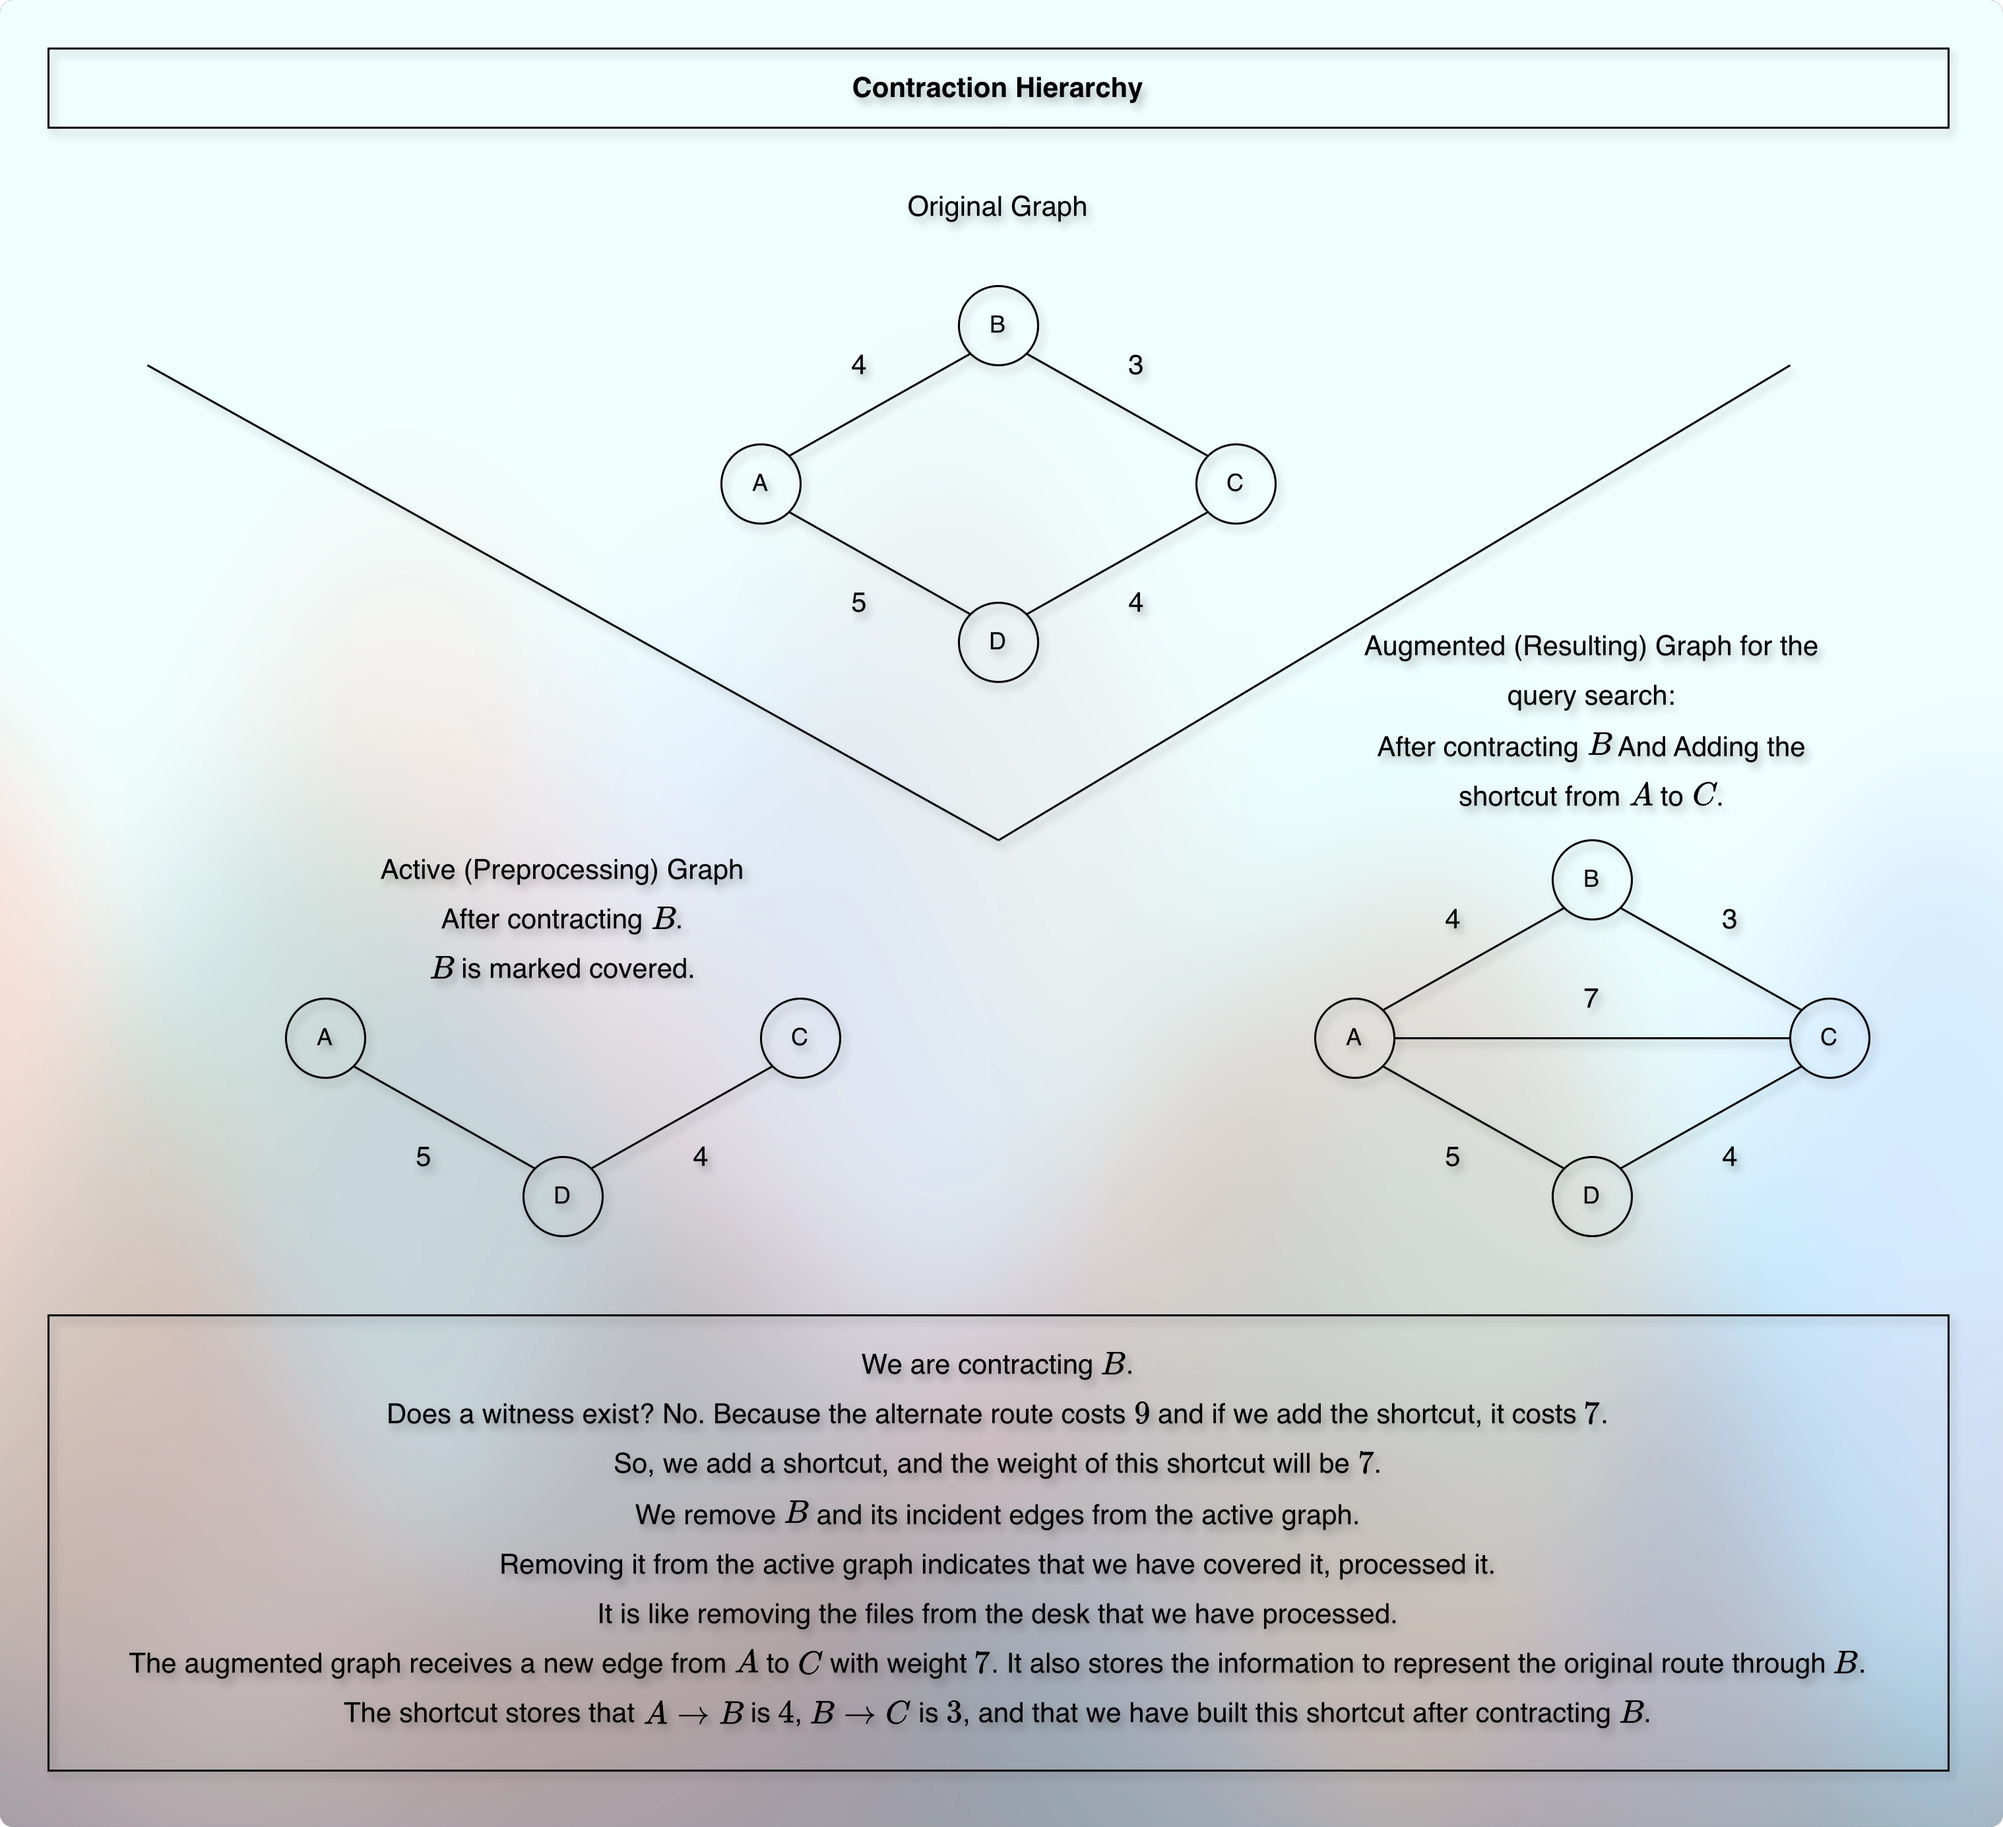
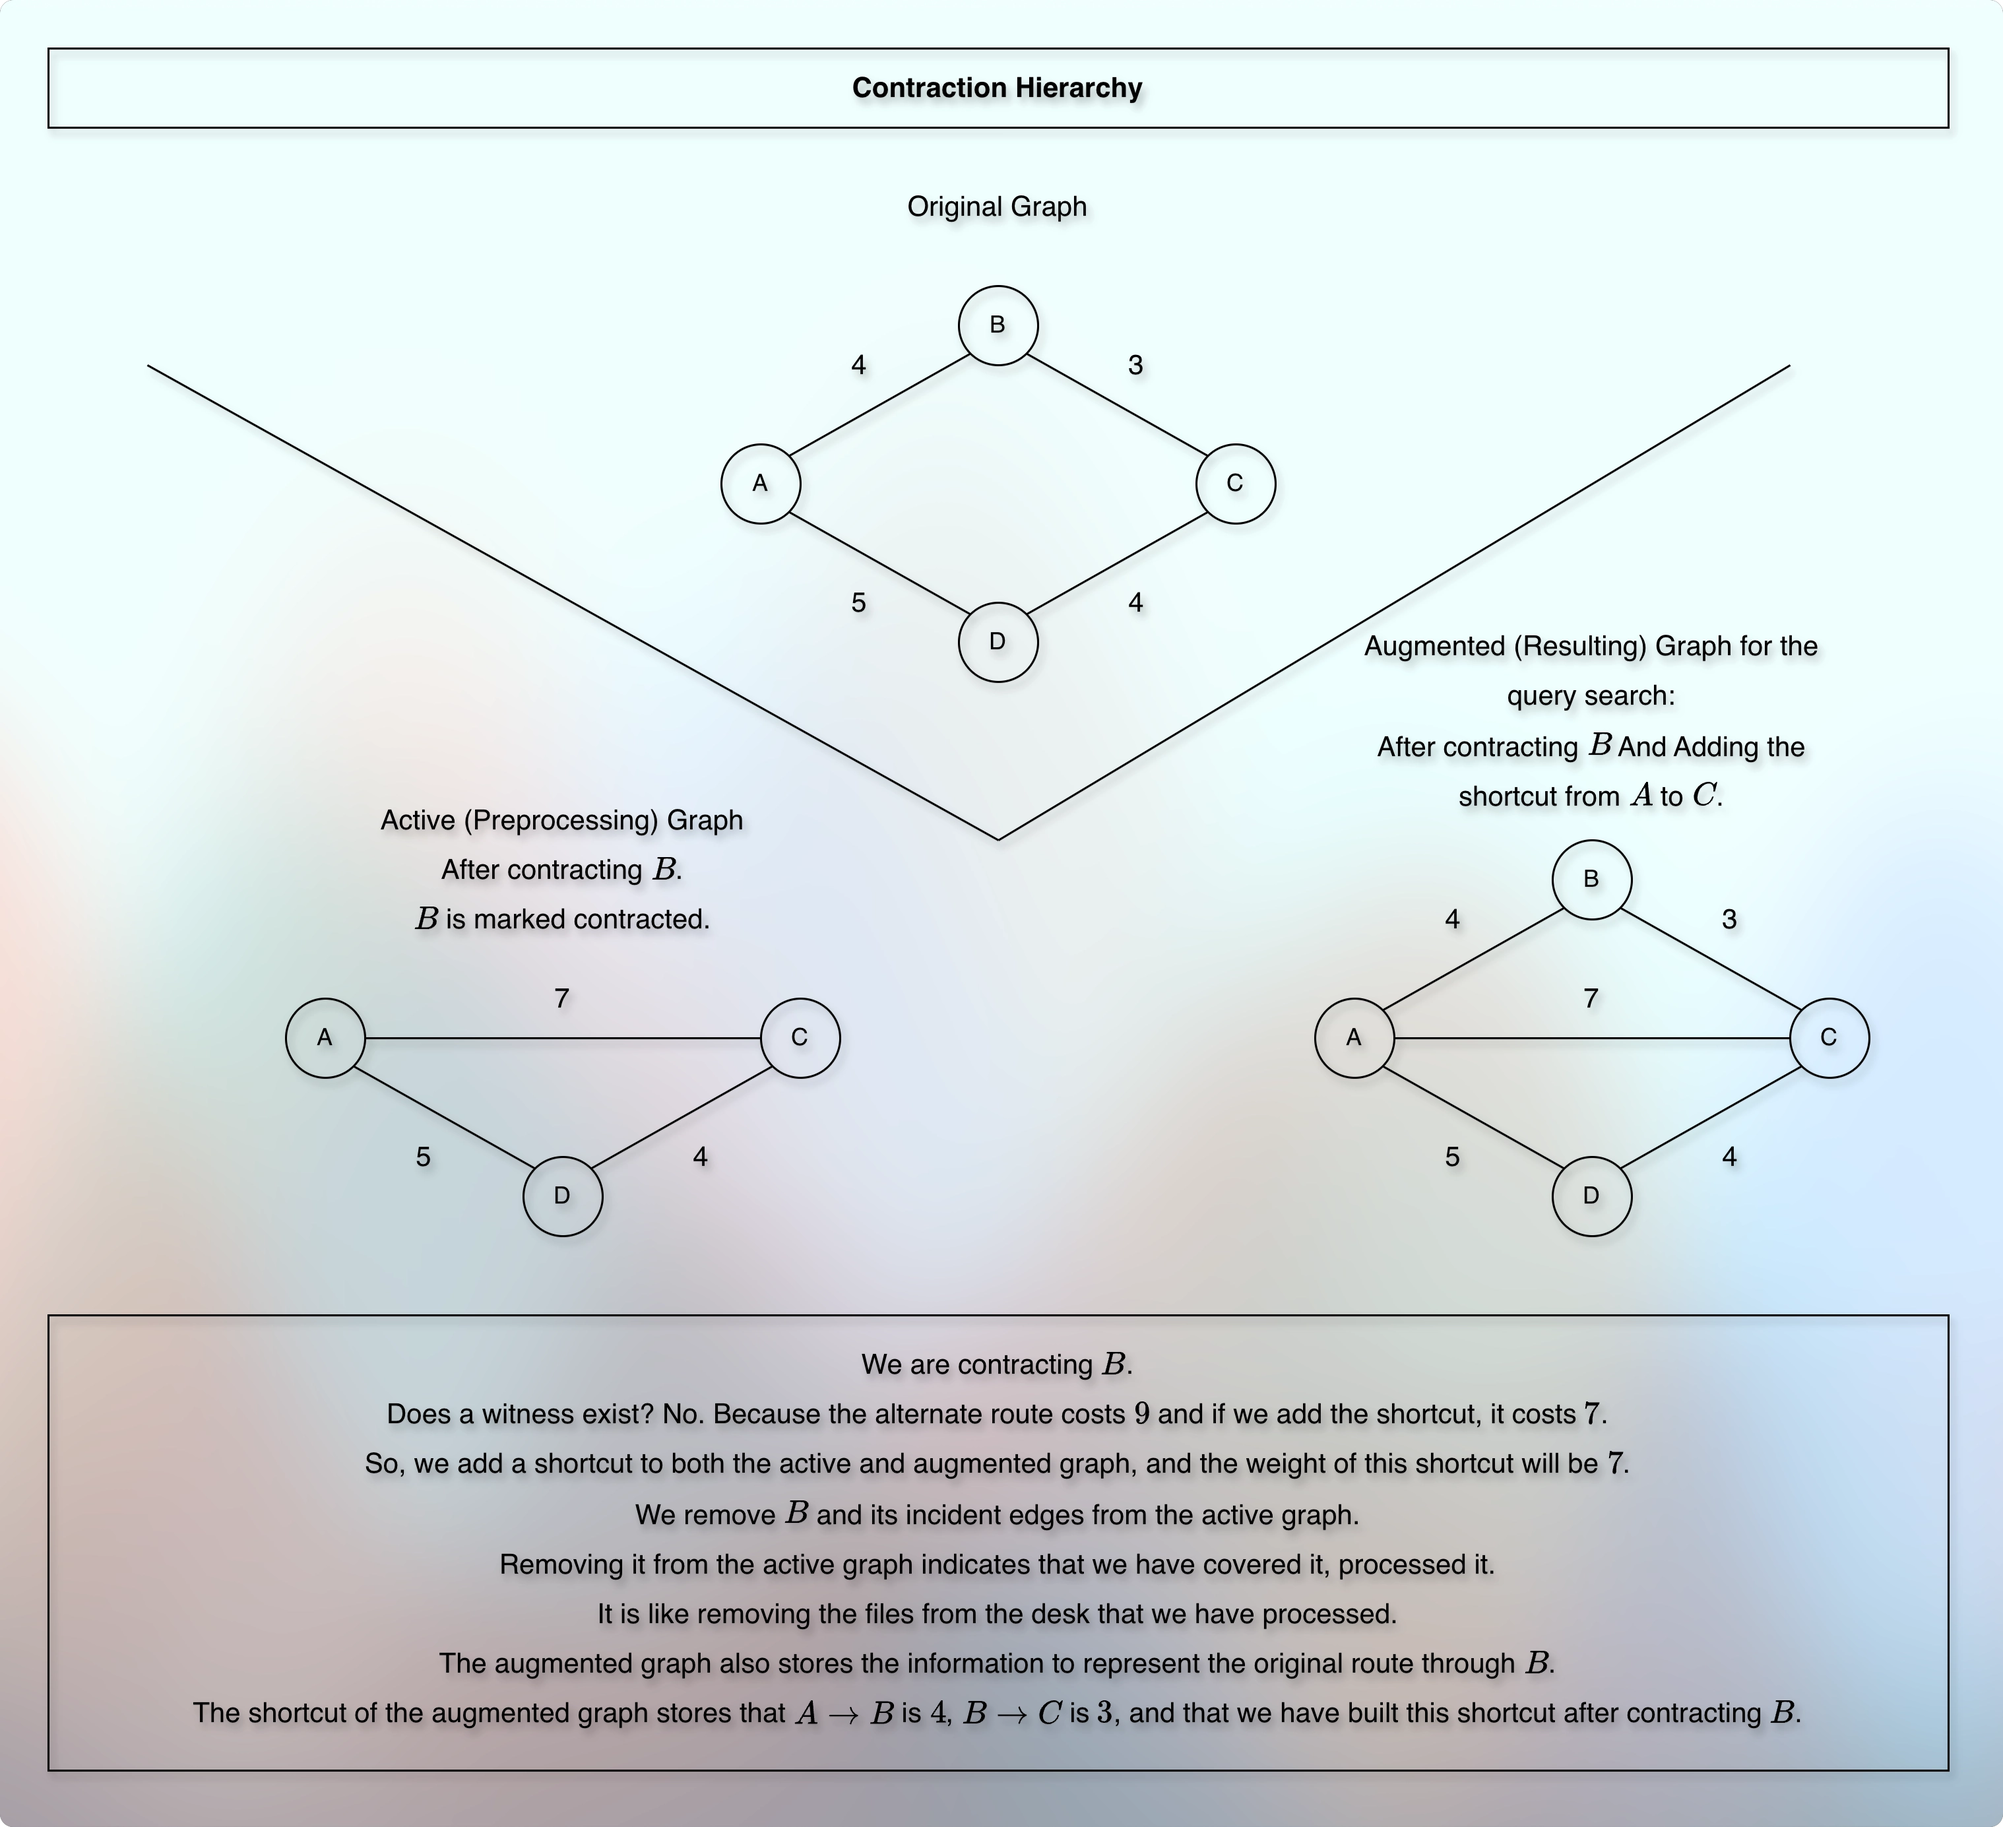
doc(WIP): Continue contraction hierarchies concept in 040contractionHierarchiesAndNodeImportance.md
Took 13 minutes

Changed region(s): [[0.0619, 0.9007, 0.9289, 0.9628], [0.1858, 0.7765, 0.805, 0.8075], [0.1858, 0.4348, 0.3715, 0.559]]

diff --git a/docs/03graph/courses/uc/module06advancedShortestPathProject/010lectures/040contractionHierarchiesAndNodeImportance.md b/docs/03graph/courses/uc/module06advancedShortestPathProject/010lectures/040contractionHierarchiesAndNodeImportance.md
@@ -665,7 +665,13 @@ $$
 * However, whether we create the shortcut or not due to the witness path, we still contract the vertex.
 * Once we contract the vertex, we remove it from the active graph, the graph that we are preprocessing, the original graph, now modified.
 * It is like removing processed files and tasks from the desk.
-* Whereas the term "Hierarchy" is associated with the concept of "importance".
+* Both the active graph and the augmented graph get the shortcut.
+* The shortcuts we add to the active graph can work as witness path.
+* It means that the active graph might end up with having only shortcuts.
+* However, it is not necessary.
+* The active graph can contain a few shortcuts and a few edges between the vertices that have not been contracted.
+* Whereas the augmented graph will always have both the original paths and also the shortcuts.
+* The term "Hierarchy" is associated with the concept of "importance".
 * We don't randomly select and contract the vertices.
 * We contract the vertices based on their importance, which creates a particular "hierarchy" of the "contraction".
 * In simple words, it is an order (sequence) of contraction.
